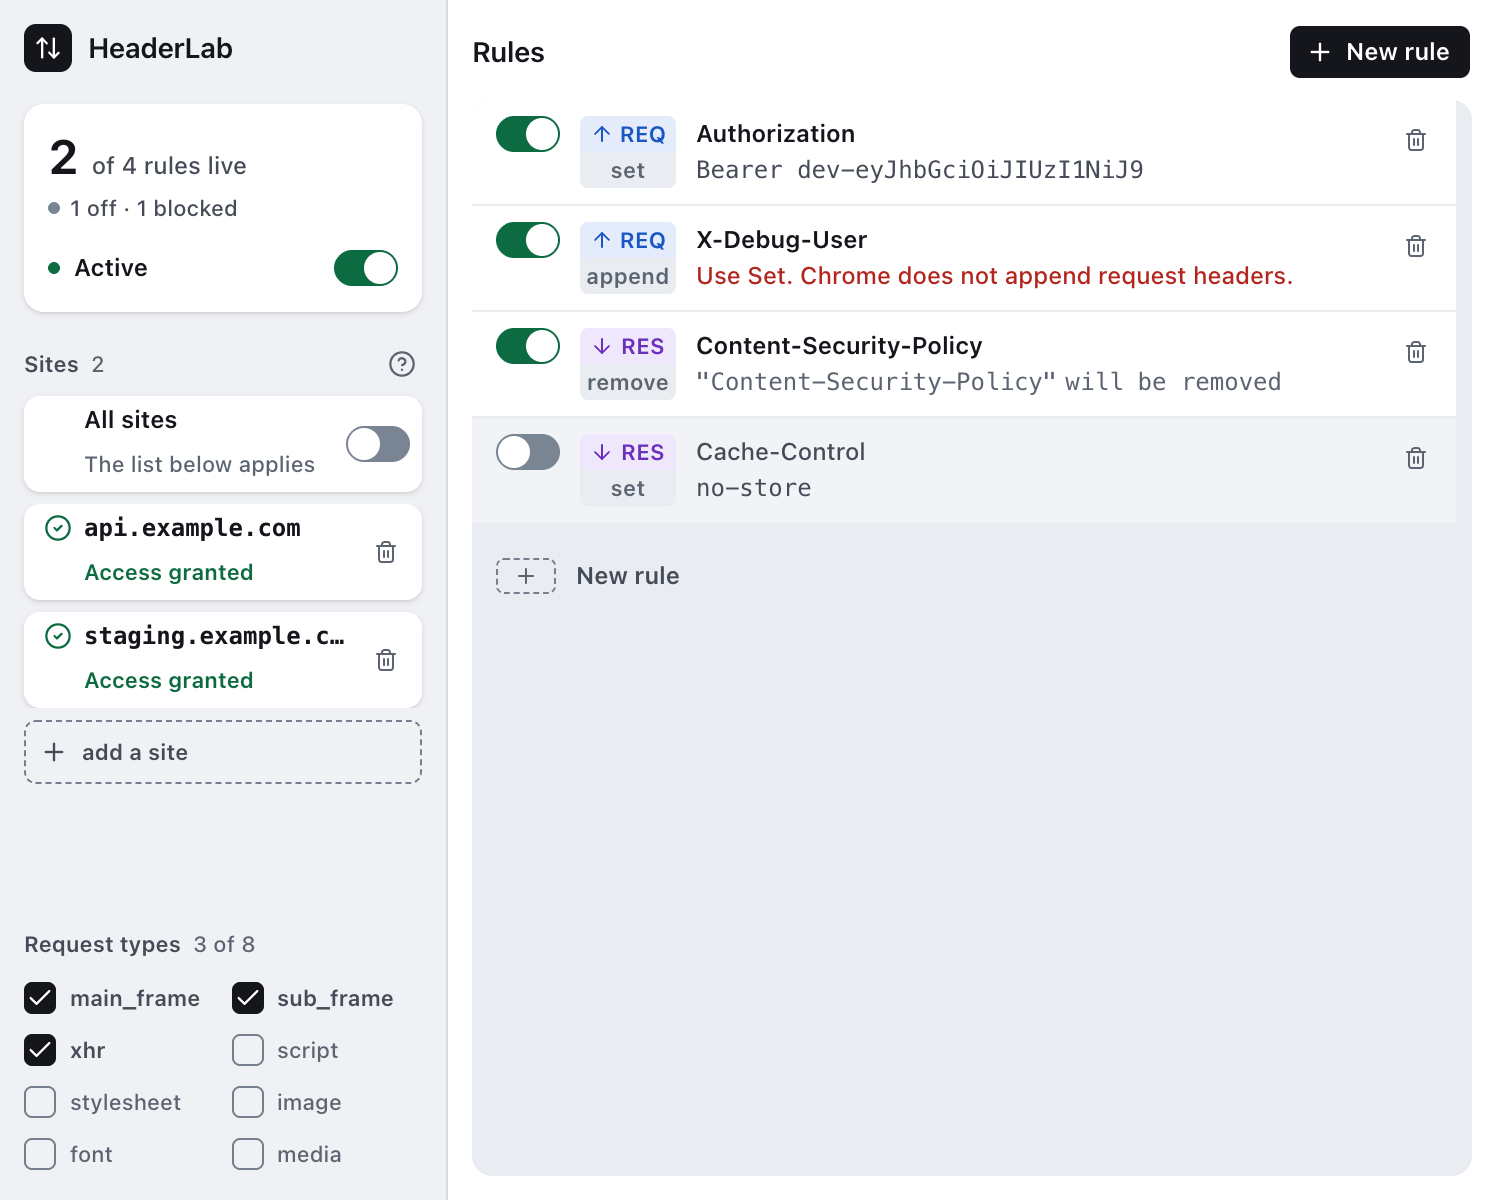
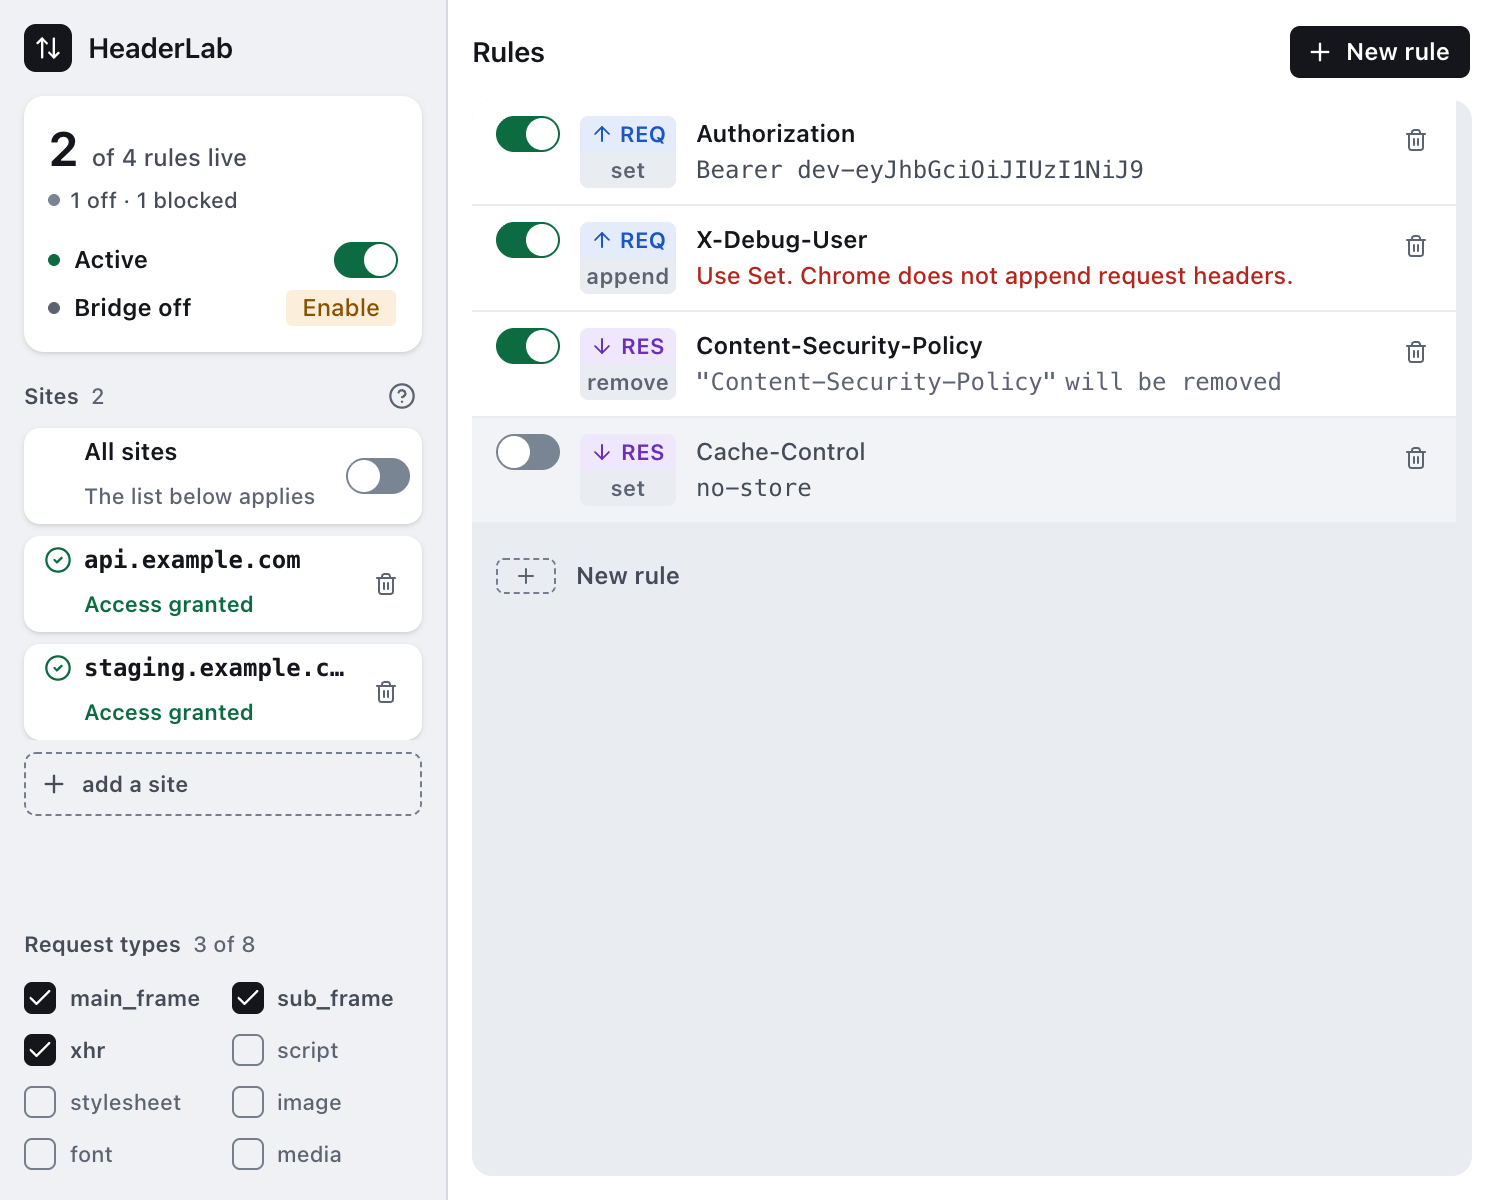
fix: trim the rail's rhythm to fit the bridge row, 5px from the list
Option 1 from the rail-budget mockup (docs/design/2026-08-12-agent-bridge-
rail-budget.html): mt-4 to mt-3 on the readout card and sites section,
pt-3 to pt-2 on the request-types section, mt-2 to mt-1 on the bridge
row itself, closing 16 of the 21px shortfall. The remaining 5px comes
off the site list's own cap, 132px to 127px.

Confirmed against the built popup: rail budget 576, used 576, slack 0.
Site list 127px, third row exposed 19px of 48 instead of 24. The two
e2e layout guards that named the old numbers now name the new ones,
with comments explaining why the figures moved. pnpm check and
pnpm test:e2e both green; four screenshots inspected by eye.

Changed region(s): [[0.0307, 0.185, 0.2767, 0.6783], [0.0307, 0.0925, 0.1845, 0.185], [0.0, 0.2158, 0.1537, 0.3392]]

diff --git a/components/ScopeRail.tsx b/components/ScopeRail.tsx
@@ -238,7 +238,7 @@ export function ScopeRail({
       {/* The count and the master switch on one raised surface. They are the
           same question asked twice — how much is going out, and is any of it —
           so they share a card rather than sitting as two bands on the rail. */}
-      <div className="mx-3 mt-4 shrink-0 rounded-[10px] bg-card p-3 shadow-sm">
+      <div className="mx-3 mt-3 shrink-0 rounded-[10px] bg-card p-3 shadow-sm">
         <div data-testid="readout">
           <div className="flex h-7 items-baseline gap-[7px] tabular-nums">
             {/* No `leading-1`: at this weight macOS's system-ui glyphs have
@@ -324,11 +324,15 @@ export function ScopeRail({
           />
         </div>
 
-        {/* The fourth line of the readout card, and the whole of the 28px of
-            slack the rail had left — measured in the built popup, not read off
-            the source. The site list's max-height stays at 132px so the third
-            row is still cut across the middle, which is the affordance that
-            says the list continues.
+        {/* The fourth line of the readout card. It did not fit inside the 28px
+            the rail's own docblock once claimed — that figure was read off the
+            source, not the built popup, and the real number was 7px once
+            measured correctly (docs/design/2026-08-12-agent-bridge-rail-budget.html).
+            The 21px shortfall is closed by trimming four other margins one
+            notch each (this row's own `mt-1`, the readout card's and sites
+            section's `mt-4`→`mt-3`, the types section's `pt-3`→`pt-2`) and
+            taking the remaining 5px from the site list's own cap — see that
+            list's docblock for the accounting.
 
             Shaped exactly like the run state above it because it is the same
             kind of fact: a thing that is either happening or not, with one
@@ -337,7 +341,7 @@ export function ScopeRail({
             consent dialog must follow a button that asks for consent, never a
             control that merely moved. */}
         <div
-          className="mt-2 flex h-5 items-center gap-[7px]"
+          className="mt-1 flex h-5 items-center gap-[7px]"
           data-testid="bridgestate"
           data-bridge={bridge}
         >
@@ -449,7 +453,7 @@ export function ScopeRail({
           down, instead of the site list shrinking from 132 to 48. The e2e
           suite opens exactly that page (a note plus eight sites), so the class
           cannot be dropped in silence. */}
-      <div className="mt-4 flex min-h-0 flex-col gap-1.5">
+      <div className="mt-3 flex min-h-0 flex-col gap-1.5">
         <div className={HEAD_CLASS}>
           Sites{' '}
           <span className={HEAD_COUNT_CLASS} data-testid="site-count">
@@ -628,19 +632,38 @@ export function ScopeRail({
             turning it back off returns to. It is shown as what it is — still
             there, not in use — and each row says so on its own second line.
 
-            The height stops at 132px, which is deliberately NOT a multiple of
+            The height stops at 127px, which is deliberately NOT a multiple of
             the 54px row pitch: two rows and the gap after them are 108px and
             three are 156px, so a third site leaves that row cut across the
-            middle — 24px of 48 — and the cut row is the affordance saying the
-            list continues. 156 or 162 would each show a whole number of rows
-            and say nothing. The remaining rail is what caps it: 132 leaves
-            28px of slack under the checklist, and every 48px more would spend
-            a whole row of that. The reference
-            mockup capped the list at a fixed 176px, which this does not copy —
-            a hard cap opens a hole between the last site and everything below
-            it when there are only one or two. `max-height` lets the list be as
-            tall as it has content for, and `mt-auto` on the section below
-            sends the leftover to the foot of the rail instead.
+            middle — now 19px of 48, not the wider 24px an unpressured rail
+            could afford — and the cut row is the affordance saying the list
+            continues regardless of exactly how much of it shows. 156 or 162
+            would each show a whole number of rows and say nothing; nor would
+            108, which is why the cap sits above two full rows rather than at
+            them. The reference mockup capped the list at a fixed 176px, which
+            this does not copy — a hard cap opens a hole between the last site
+            and everything below it when there are only one or two.
+            `max-height` lets the list be as tall as it has content for, and
+            `mt-auto` on the section below sends the leftover to the foot of
+            the rail instead.
+
+            132 was the figure here before the bridge row
+            (components/ScopeRail.tsx's bridgestate block) landed. That row
+            needed 28px and the rail had 7 genuinely free — measured in the
+            built popup, not read off the source; see
+            docs/design/2026-08-12-agent-bridge-rail-budget.html for the
+            arithmetic. Four other margins each gave up 1px (the readout
+            card's and this section's own `mt-4`→`mt-3`, the types section's
+            `pt-3`→`pt-2`, the bridge row's own `mt-2`→`mt-1`), closing 16 of
+            the 21px shortfall; the list gave up the remaining 5, 132→127.
+
+            **The rail now carries zero slack.** Every other margin in this
+            card was already load-bearing rhythm, not spare space, so the next
+            thing added to this rail does not have 7 (or 28) free px waiting
+            for it — it reopens this exact accounting from a starting budget
+            of 0, and adding it without shrinking this list further means
+            finding room somewhere else in the rail on purpose, not by
+            spending what is left here.
 
             The scrollbar is not assumed to be visible: on macOS it is an
             overlay that paints over the content and vanishes. `scroll-list`
@@ -651,7 +674,7 @@ export function ScopeRail({
             `empty:hidden` so a rail with no sites yet does not carry a 6px gap
             for a list with nothing in it. */}
         <div
-          className="scroll-list flex max-h-[132px] flex-col gap-1.5 pr-1 pl-3 empty:hidden"
+          className="scroll-list flex max-h-[127px] flex-col gap-1.5 pr-1 pl-3 empty:hidden"
           data-testid="site-list"
         >
           {domains.map((stored) => {
@@ -717,7 +740,7 @@ export function ScopeRail({
           also where the scope notes go — every one of them is about the sites,
           and the checklist is the least-touched control on screen, so it is
           the one that can afford to be the thing you scroll past. */}
-      <div className="mt-auto shrink-0 pt-3" data-testid="rail-section-types">
+      <div className="mt-auto shrink-0 pt-2" data-testid="rail-section-types">
         <div className={HEAD_CLASS}>
           Request types{' '}
           <span className={HEAD_COUNT_CLASS}>

diff --git a/tests/e2e/header-modification.spec.ts b/tests/e2e/header-modification.spec.ts
@@ -1422,8 +1422,20 @@ test('목록이 넘쳐도 잘리지 않고, 주변은 움직이지 않는다', a
   const unusableLines = await measureLines(unusablePage);
 
   // 압력을 받는 레일: 목록만 양보하고, 레일 자신은 스크롤하지 않으며, 요청 타입은
-  // 제자리에 있다. 목록의 max-height 는 132px 이므로, 그보다 작아졌다는 것이
+  // 제자리에 있다. 목록의 max-height 는 127px 이므로, 그보다 작아졌다는 것이
   // 곧 "양보한 쪽은 목록이다"라는 뜻이다.
+  //
+  // 36 은 48 에서 다시 잰 값이다(예전에는 132→48 이었다). 브리지 행이 레일에
+  // 더해지면서 예산 자체가 바뀌었기 때문에 움직였다 — 카드가 28px 필요했는데
+  // 진짜 여유는 7px 뿐이었고(docs/design/2026-08-12-agent-bridge-rail-budget.html),
+  // 나머지 21px 중 16px 은 다른 네 여백에서, 5px 는 이 목록의 cap 자체에서
+  // 가져왔다(132→127, ScopeRail.tsx 의 site-list 문서화 참고). 이 페이지는
+  // 그 cap 위에 스코프 노트까지 더해 훨씬 세게 누르므로 같은 21px 압박이
+  // 132→127 보다 여기서 더 크게(48→36) 나타난다. 부등호로 완화하지 않고
+  // 정확한 값으로 다시 고정한다 — 레이아웃이 움직일 때마다 다시 재야 하는
+  // 것이 이 단언의 존재 이유다. 36 은 여전히 목록이 완전히 접히지 않고 한
+  // 행의 일부(48 중 36)를 보여주며 listScrolls: true 로 남아 있어, "목록만
+  // 양보하고 이웃은 그대로"라는 이 단언의 주제를 여전히 보여준다.
   const underPressure = await unusablePage.evaluate(() => {
     const rail = document.querySelector('aside')!;
     const list = document.querySelector('[data-testid="site-list"]')!;
@@ -1437,7 +1449,7 @@ test('목록이 넘쳐도 잘리지 않고, 주변은 움직이지 않는다', a
   expect(underPressure).toEqual({
     notes: 1,
     railScrolls: false,
-    listHeight: 48,
+    listHeight: 36,
     listScrolls: true,
   });
   expect(await boxes(unusablePage), '압력을 받아도 요청 타입은 제자리다').toEqual(before);
@@ -1621,8 +1633,10 @@ test('목록이 넘쳐도 잘리지 않고, 주변은 움직이지 않는다', a
   // 1b 가 `rows: 8` 을 정확값으로 고정하는 것과 같은 이유다.
   //
   // 구성 — 이 숫자가 무엇으로 이루어졌는지 알아야 실패를 읽을 수 있다:
-  //   레일 25 = 브랜드 1 · readout 3(큰 숫자, "of 10 rules live", subcount "2 off")
-  //             · Sites 카운트 1 · run state 1("Active") · all-sites 2(라벨, 상태 줄)
+  //   레일 27 = 브랜드 1 · readout 3(큰 숫자, "of 10 rules live", subcount "2 off")
+  //             · Sites 카운트 1 · run state 1("Active")
+  //             · bridge row 2(라벨 "Bridge off", Enable 버튼)
+  //             · all-sites 2(라벨, 상태 줄)
   //             · 사이트 행 16(호스트 8 + Grant 버튼 7 + granted 상태 줄 1)
   //             · Request types 카운트 1
   //   패널 12 = 헤딩 1 · ghost 행 라벨 1 · 규칙 행의 operation 10
@@ -1633,10 +1647,15 @@ test('목록이 넘쳐도 잘리지 않고, 주변은 움직이지 않는다', a
   // 자기 span 으로 감쌌더니 잎이 되어 저절로 검사 대상이 됐다. 지표를 넓힌 게
   // 아니라 노드가 지표 안으로 들어온 것이다.
   //
+  // 25 → 27 은 그 사각지대와 다른 종류다: 팝업이 조금 바뀐 게 아니라 레일에
+  // 실제 줄이 하나(bridgestate) 늘었다. 이 시점에 브리지 권한 probe 는 이미
+  // 정착해 있어 `off` 로 읽히므로 라벨 span 과 Enable 버튼 둘 다 텍스트를 가진
+  // 잎이 되어 셈에 들어온다.
+  //
   // 마크업을 바꿔서 이 수가 달라졌다면 그건 이 단언이 잡으라고 있는 사고가
   // 아니라 정상적인 변경이다 — 다시 재서 여기와 위 구성을 함께 고쳐라.
   expect(clipped.inspected, 'the clipping check must have had text to look at').toEqual({
-    rail: 25,
+    rail: 27,
     panel: 12,
   });
 
@@ -1740,7 +1759,7 @@ test('the bridge row does not push the rail past its column', async ({
   extensionId,
 }) => {
   // Four sites so the list is actually at its cap — with one or two it is
-  // shorter than 132px and the affordance assertion below would pass while
+  // shorter than 127px and the affordance assertion below would pass while
   // describing nothing.
   //
   // The brief's own fixture literal for this test used `filter.mode: 'domains'`,
@@ -1791,9 +1810,14 @@ test('the bridge row does not push the rail past its column', async ({
   await page.goto(`chrome-extension://${extensionId}/popup.html`);
   await expect(page.getByTestId('bridgestate')).toBeVisible();
 
-  // The rail had 28px of slack and this row spends all of it. Measured here
-  // rather than taken from the source, because the source figure is exactly
-  // what the design doc warned would go stale.
+  // The rail had 7px of real slack — not the 28px the source once claimed —
+  // and this row needs 28. The shortfall was closed by trimming four other
+  // margins one notch each and taking 5px from the site list's own cap
+  // (docs/design/2026-08-12-agent-bridge-rail-budget.html has the arithmetic;
+  // ScopeRail.tsx's site-list docblock has the accounting). Still an
+  // inequality here — this assertion's own subject is "does not overflow",
+  // not "spends exactly this much"; the list-height check below is the one
+  // that pins the now-zero-slack budget to an exact number.
   const rail = page.locator('aside').first();
   const { scrollHeight, clientHeight } = await rail.evaluate((el) => ({
     scrollHeight: el.scrollHeight,
@@ -1802,7 +1826,8 @@ test('the bridge row does not push the rail past its column', async ({
   expect(scrollHeight).toBeLessThanOrEqual(clientHeight);
 
   // And the affordance that slack was protecting is still there: the list
-  // stops mid-row rather than on one, which is what says it continues.
+  // stops mid-row rather than on one, which is what says it continues — now
+  // at 127px, 19px of the third row's 48 rather than the previous 24.
   const list = page.getByTestId('site-list');
-  expect(await list.evaluate((el) => el.clientHeight)).toEqual(132);
+  expect(await list.evaluate((el) => el.clientHeight)).toEqual(127);
 });
